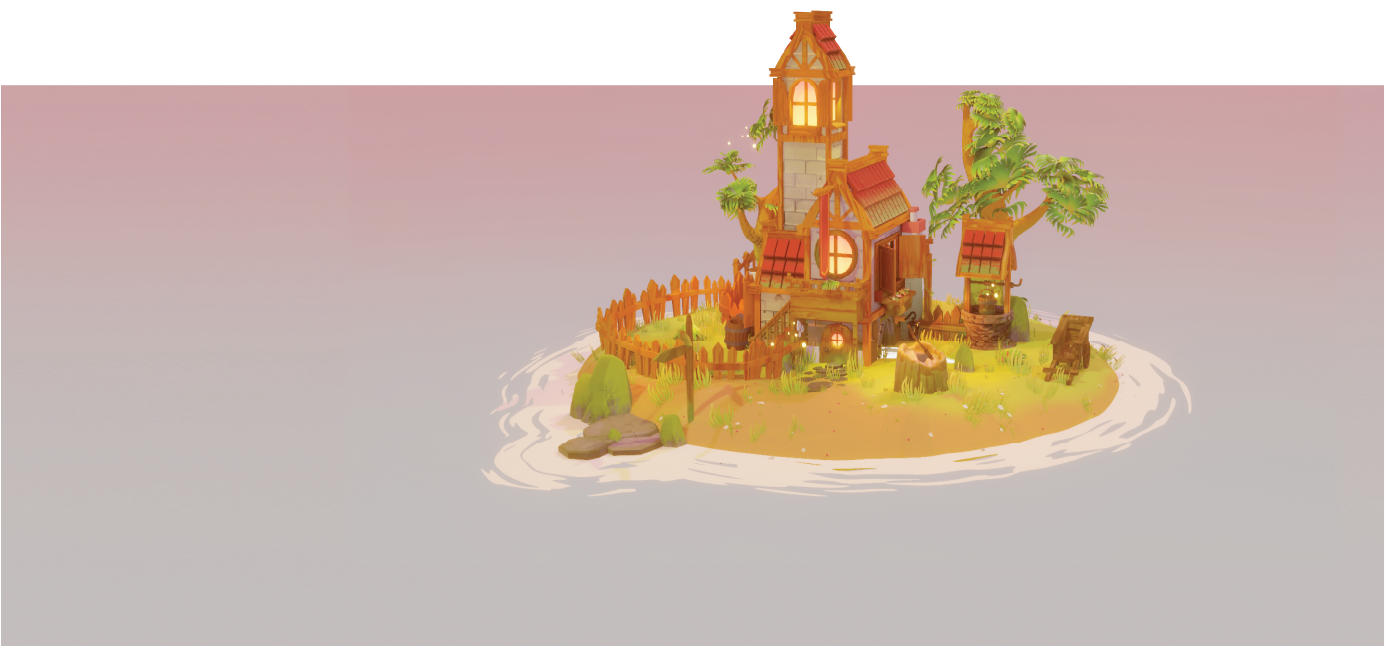
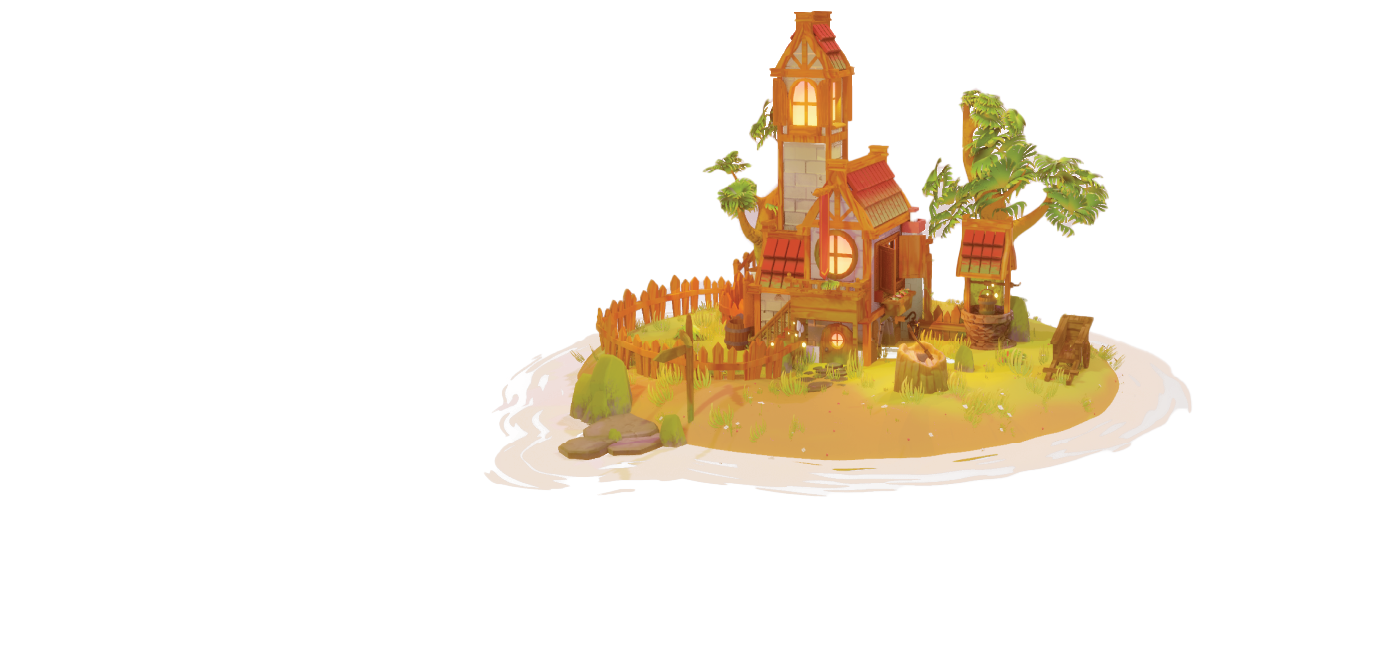
NewUpdate_03

diff --git a/styles.css b/styles.css
@@ -14,7 +14,7 @@ body {
   position: relative;
   z-index: 1;
   /* background: transparent; */ /* Often better to set a base background */
-  background: #C3BEBD; /* Fallback background */
+  background:linear-gradient(to bottom, #cca0a4, #c3bebd 20%);
   overflow-x: hidden; /* Prevent horizontal scroll */
   font-family: 'Roboto Serif', 'Trebuchet MS', sans-serif; /* Added Roboto Serif */
   color: #333; /* Default text color */
@@ -88,7 +88,6 @@ nav {
 }
 
 /* Hero Section */
-
 .hero.fly-section {
   position: fixed;
   top: 80px;
@@ -96,7 +95,7 @@ nav {
   width: 100vw;
   height: 100vh;
 
-  background: url('img/Asset 1.png') no-repeat center center;
+  background: url('img/Asset 1.png') no-repeat center;
   background-size: contain; /* or 80% auto if you want smaller */
   background-repeat: no-repeat;
 
@@ -107,7 +106,11 @@ nav {
 
   z-index: 100; /* Highest: Stays above header */
   overflow: hidden;
+  pointer-events: none;
 }
+
+
+
 
 
 .hero.fly-section.intro-container {
@@ -115,6 +118,7 @@ nav {
   animation: fadeInHero 1s ease-out 0.1s forwards; /* JS might handle this too */
   position: relative; /* Needed for absolute positioning of hover-info */
   display: inline-block;
+  pointer-events: auto;
 }
 
 @keyframes fadeInHero {
